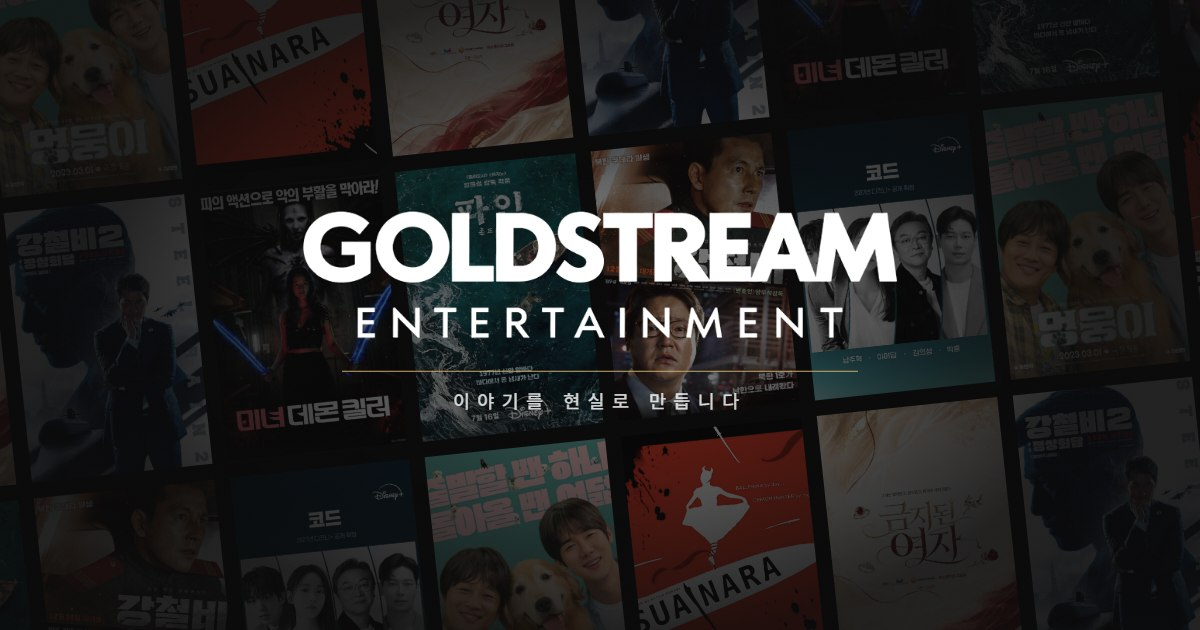
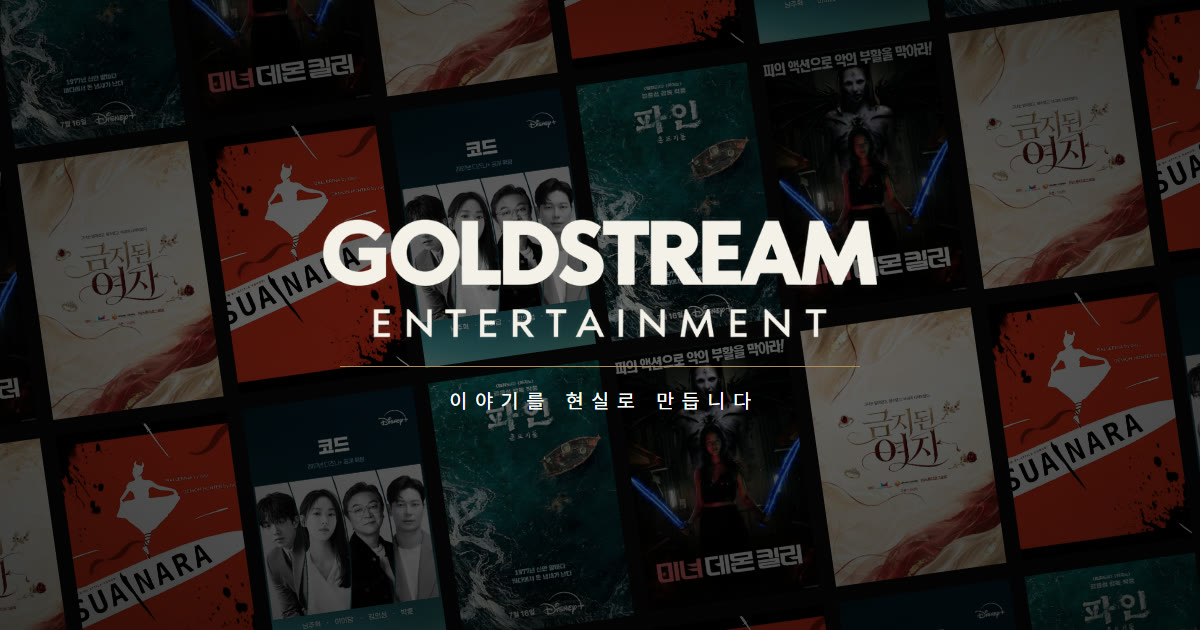
Remove 강철비, 강철비2, 멍뭉이 from the site; five-column work grids; new share image without their posters

diff --git a/js/en.js b/js/en.js
@@ -42,21 +42,6 @@ window.GS_EN = {
       credits: { "감독": "Kang Yoon-sung", "각본": "Kang Yoon-sung", "출연": "Ryu Seung-ryong, Yang Se-jong, Im Soo-jung, Kim Eui-sung, Lee Dong-hwi, Jung Yun-ho", "플랫폼": "Disney+ Original" },
       dateLabel: "Released, 2025 · Disney+"
     },
-    mungmungi: {
-      synopsis: "When Min-su can no longer live with his dog Rooney, he and his cousin Jin-guk set out from Seoul to Jeju to find Rooney the perfect new family. A road movie that ends its laughs face to face with the reality of abandoned dogs.",
-      credits: { "감독": "Kim Joo-hwan", "각본": "Kim Joo-hwan", "출연": "Yoo Yeon-seok, Cha Tae-hyun", "플랫폼": "Theatrical release" },
-      dateLabel: "Released, March 2023"
-    },
-    steelrain2: {
-      synopsis: "During a summit between the leaders of South Korea, North Korea and the United States in Wonsan, a coup by the North's guard command erupts in protest at denuclearisation. The three leaders are taken hostage aboard a North Korean nuclear submarine, where the fate of the peninsula plays out in a cramped hull. The second story in the 'Steel Rain' universe.",
-      credits: { "감독": "Yang Woo-suk", "각본": "Yang Woo-suk", "출연": "Jung Woo-sung, Yoo Yeon-seok, Kwak Do-won, Angus Macfadyen, Shin Jung-geun", "플랫폼": "Theatrical release" },
-      dateLabel: "Released, 2020"
-    },
-    steelrain: {
-      synopsis: "A coup breaks out in North Korea and its mortally wounded leader is carried across the border into the South. A spy action film about one day in which two agents, one from each side, move together to stop a war. Based on the webtoon 'Steel Rain' by director Yang Woo-suk.",
-      credits: { "감독": "Yang Woo-suk", "각본": "Yang Woo-suk", "출연": "Jung Woo-sung, Kwak Do-won, Kim Kap-su, Kim Eui-sung, Jo Woo-jin", "플랫폼": "Theatrical release" },
-      dateLabel: "Released, December 2017"
-    },
     suanara: {
       synopsis: "Ballerina by day, demon hunter by night. An action fantasy in which Sua, a ballerina pushed to the edge of death, becomes one with the demon Nara and fights. Shot entirely in Gwangju, Gokseong, Geoje and Paju; its anime-flavoured stylised action and practical stunts drew attention from overseas press.",
       credits: { "감독": "Attila Korosi", "각본": "Attila Korosi", "출연": "Han Ji-yeon, Anita Korosi, Joseph Kim", "플랫폼": "-" },

diff --git a/works.html b/works.html
@@ -4,13 +4,13 @@
   <meta charset="UTF-8" />
   <meta name="viewport" content="width=device-width, initial-scale=1" />
   <title>작품 | GOLDSTREAM Entertainment</title>
-  <meta name="description" content="코드, 금지된 여자, 파인: 촌뜨기들, 멍뭉이, 강철비2: 정상회담, 강철비 등 골드스트림엔터테인먼트가 기획·제작에 참여한 영화와 드라마 시리즈." />
+  <meta name="description" content="코드, 금지된 여자, 파인: 촌뜨기들, 수아나라, 미녀 데몬 킬러 등 골드스트림엔터테인먼트가 기획·제작에 참여한 영화와 드라마 시리즈." />
   <link rel="canonical" href="https://goldstream.kr/works.html" />
   <meta property="og:type" content="website" />
   <meta property="og:site_name" content="골드스트림엔터테인먼트" />
   <meta property="og:url" content="https://goldstream.kr/works.html" />
   <meta property="og:title" content="작품 | GOLDSTREAM Entertainment" />
-  <meta property="og:description" content="코드, 금지된 여자, 파인: 촌뜨기들, 멍뭉이, 강철비2: 정상회담, 강철비 등 골드스트림엔터테인먼트가 기획·제작에 참여한 영화와 드라마 시리즈." />
+  <meta property="og:description" content="코드, 금지된 여자, 파인: 촌뜨기들, 수아나라, 미녀 데몬 킬러 등 골드스트림엔터테인먼트가 기획·제작에 참여한 영화와 드라마 시리즈." />
   <meta property="og:image" content="https://goldstream.kr/assets/img/og-goldstream.jpg" />
   <meta name="twitter:card" content="summary_large_image" />
   <link rel="icon" href="favicon.ico" sizes="any" />
@@ -19,7 +19,7 @@
   <link rel="apple-touch-icon" href="assets/icons/apple-touch-icon.png" />
   <link rel="preload" as="font" type="font/woff2" href="assets/fonts/PretendardVariable.woff2" crossorigin />
   <link rel="stylesheet" href="css/header.css?v=33042c14f5" />
-  <link rel="stylesheet" href="css/pages.css?v=ff841cfbee" />
+  <link rel="stylesheet" href="css/pages.css?v=263e78abaf" />
 </head>
 <body id="top" class="pg nh-page">
   <header class="nh" id="nh">

diff --git a/index.html b/index.html
@@ -5,7 +5,7 @@
   <meta name="viewport" content="width=device-width, initial-scale=1" />
   <meta name="naver-site-verification" content="8249526ec6bbd3ac2427ef4952b55f66466fc5bc" />
   <title>골드스트림엔터테인먼트 | GOLDSTREAM Entertainment</title>
-  <meta name="description" content="골드스트림엔터테인먼트(GOLDSTREAM ENTERTAINMENT)는 영화·드라마의 기획개발, 투자, 제작을 하는 콘텐츠 제작사입니다. 강철비, 강철비2: 정상회담, 멍뭉이, 파인: 촌뜨기들, 코드." />
+  <meta name="description" content="골드스트림엔터테인먼트(GOLDSTREAM ENTERTAINMENT)는 영화·드라마의 기획개발, 투자, 제작을 하는 콘텐츠 제작사입니다. 코드, 금지된 여자, 파인: 촌뜨기들." />
   <link rel="canonical" href="https://goldstream.kr/" />
   <meta property="og:type" content="website" />
   <meta property="og:site_name" content="골드스트림엔터테인먼트" />
@@ -29,7 +29,7 @@
   </script>
   <link rel="preload" as="font" type="font/woff2" href="assets/fonts/PretendardVariable.woff2" crossorigin />
   <link rel="stylesheet" href="css/header.css?v=33042c14f5" />
-  <link rel="stylesheet" href="css/style.css?v=ff931a85df" />
+  <link rel="stylesheet" href="css/style.css?v=7342a77938" />
 </head>
 <body class="home" id="top">
   <header class="hd" id="hd">
@@ -87,7 +87,7 @@
   </footer>
 
   <script src="js/intro.js?v=90c58bab13"></script>
-  <script src="js/en.js?v=e33a2df39e"></script>
+  <script src="js/en.js?v=02b09120b9"></script>
   <script src="js/site.js?v=5d95252f3f"></script>
 </body>
 </html>

diff --git a/admin.html b/admin.html
@@ -92,8 +92,8 @@
         <h2>홈 — 첫 화면 슬라이드</h2>
         <p class="admin-hint">01번은 회사 소개 화면(지금은 G 로고), 02번부터 아래 순서대로 작품이 나옵니다. 작품별 가로 이미지는 아래 [작품] 칸에서 올립니다.</p>
         <div class="field">
-          <label>슬라이드 작품 순서 — 작품 ID, 쉼표로 구분 (작품 ID: code, steelrain, steelrain2, pine, mungmungi, demonkiller, suanara)</label>
-          <input type="text" id="f-home-slideIds" placeholder="code, pine, mungmungi, steelrain2, steelrain" />
+          <label>슬라이드 작품 순서 — 작품 ID, 쉼표로 구분 (작품 ID: code, forbidden, pine, suanara, demonkiller)</label>
+          <input type="text" id="f-home-slideIds" placeholder="code, forbidden, pine, suanara, demonkiller" />
         </div>
         <div class="field">
           <label>01번 모션그래픽 영상 (mp4 · 16:9 · 소리 없음 · 10MB 이하 권장) — 비워두면 G 로고 화면</label>
@@ -119,7 +119,7 @@
         <div class="field"><label>회사 한 줄 소개 — 설명</label><textarea id="f-statementBody"></textarea></div>
         <div class="field">
           <label>SELECTED WORK 포스터 — 작품 ID, 쉼표로 구분, 원하는 순서대로</label>
-          <input type="text" id="f-home-featuredIds" placeholder="code, pine, mungmungi, steelrain2, steelrain" />
+          <input type="text" id="f-home-featuredIds" placeholder="code, forbidden, pine, suanara, demonkiller" />
         </div>
       </section>
 

diff --git a/css/pages.css b/css/pages.css
@@ -82,7 +82,7 @@ body.pg {
 .wk2__tabs button:hover { background: var(--gold-soft); color: var(--ink); }
 .wk2__tabs button[aria-pressed="true"] { background: var(--gold); color: #fff; }
 
-.wk2__grid { display: grid; grid-template-columns: repeat(4, minmax(0, 1fr)); gap: 56px 28px; margin: clamp(40px, 6vh, 72px) 0 clamp(80px, 12vh, 140px); }
+.wk2__grid { display: grid; grid-template-columns: repeat(5, minmax(0, 1fr)); gap: 56px 24px; margin: clamp(40px, 6vh, 72px) 0 clamp(80px, 12vh, 140px); }
 .card2 { display: block; width: 100%; text-align: left; opacity: 0; transform: translateY(26px); }
 .card2[hidden] { display: none; }
 .card2.in { opacity: 1; transform: none; transition: opacity 0.9s var(--ease), transform 1.1s var(--ease); transition-delay: calc(0.07s * var(--i, 0)); }
@@ -99,6 +99,7 @@ body.pg {
 .card2__s b { font-weight: 600; color: #525252; }
 .card2[data-status="upcoming"] .card2__s b { color: var(--gold); }
 
+@media (max-width: 1200px) { .wk2__grid { grid-template-columns: repeat(3, minmax(0, 1fr)); } }
 @media (max-width: 1000px) { .wk2__grid { grid-template-columns: repeat(2, minmax(0, 1fr)); } }
 @media (max-width: 640px) {
   .wk2__grid { grid-template-columns: repeat(2, minmax(0, 1fr)); gap: 32px 14px; }

diff --git a/location.html b/location.html
@@ -20,7 +20,7 @@
   <link rel="apple-touch-icon" href="assets/icons/apple-touch-icon.png" />
   <link rel="preload" as="font" type="font/woff2" href="assets/fonts/PretendardVariable.woff2" crossorigin />
   <link rel="stylesheet" href="css/header.css?v=33042c14f5" />
-  <link rel="stylesheet" href="css/pages.css?v=ff841cfbee" />
+  <link rel="stylesheet" href="css/pages.css?v=263e78abaf" />
 </head>
 <body id="top" class="pg nh-page nh-over loc">
   <header class="nh" id="nh">

diff --git a/about.html b/about.html
@@ -19,7 +19,7 @@
   <link rel="apple-touch-icon" href="assets/icons/apple-touch-icon.png" />
   <link rel="preload" as="font" type="font/woff2" href="assets/fonts/PretendardVariable.woff2" crossorigin />
   <link rel="stylesheet" href="css/header.css?v=33042c14f5" />
-  <link rel="stylesheet" href="css/pages.css?v=ff841cfbee" />
+  <link rel="stylesheet" href="css/pages.css?v=263e78abaf" />
 </head>
 <body id="top" class="pg nh-page">
   <header class="nh" id="nh">

diff --git a/partners.html b/partners.html
@@ -19,7 +19,7 @@
   <link rel="apple-touch-icon" href="assets/icons/apple-touch-icon.png" />
   <link rel="preload" as="font" type="font/woff2" href="assets/fonts/PretendardVariable.woff2" crossorigin />
   <link rel="stylesheet" href="css/header.css?v=33042c14f5" />
-  <link rel="stylesheet" href="css/pages.css?v=ff841cfbee" />
+  <link rel="stylesheet" href="css/pages.css?v=263e78abaf" />
 </head>
 <body id="top" class="pg nh-page">
   <header class="nh" id="nh">

diff --git a/vision.html b/vision.html
@@ -19,7 +19,7 @@
   <link rel="apple-touch-icon" href="assets/icons/apple-touch-icon.png" />
   <link rel="preload" as="font" type="font/woff2" href="assets/fonts/PretendardVariable.woff2" crossorigin />
   <link rel="stylesheet" href="css/header.css?v=33042c14f5" />
-  <link rel="stylesheet" href="css/pages.css?v=ff841cfbee" />
+  <link rel="stylesheet" href="css/pages.css?v=263e78abaf" />
 </head>
 <body id="top" class="pg nh-page">
   <header class="nh" id="nh">

diff --git a/js/legacy.js b/js/legacy.js
@@ -240,7 +240,7 @@
     var home = data.home || {};
     var ids = home.slideIds && home.slideIds.length
       ? home.slideIds
-      : ["code", "pine", "mungmungi", "steelrain2", "steelrain", "suanara", "demonkiller"];
+      : ["code", "forbidden", "pine", "suanara", "demonkiller"];
     var slides = [introSlide(home)];
     ids.forEach(function (id) {
       var w = byId(data.works, id);

diff --git a/css/style.css b/css/style.css
@@ -447,7 +447,7 @@ ul { list-style: none; }
 /* poster grid (home selected work + WORK page) */
 .works-grid {
   display: grid;
-  grid-template-columns: repeat(4, 1fr);
+  grid-template-columns: repeat(5, 1fr);
   gap: clamp(28px, 3vw, 48px) clamp(18px, 2vw, 32px);
 }
 .work { display: block; outline: none; }

diff --git a/social.html b/social.html
@@ -104,6 +104,6 @@
   </footer>
 
   <script src="js/header.js?v=ff53069054"></script>
-  <script src="js/legacy.js?v=21f2de8c2b"></script>
+  <script src="js/legacy.js?v=4eb13fdba3"></script>
 </body>
 </html>
